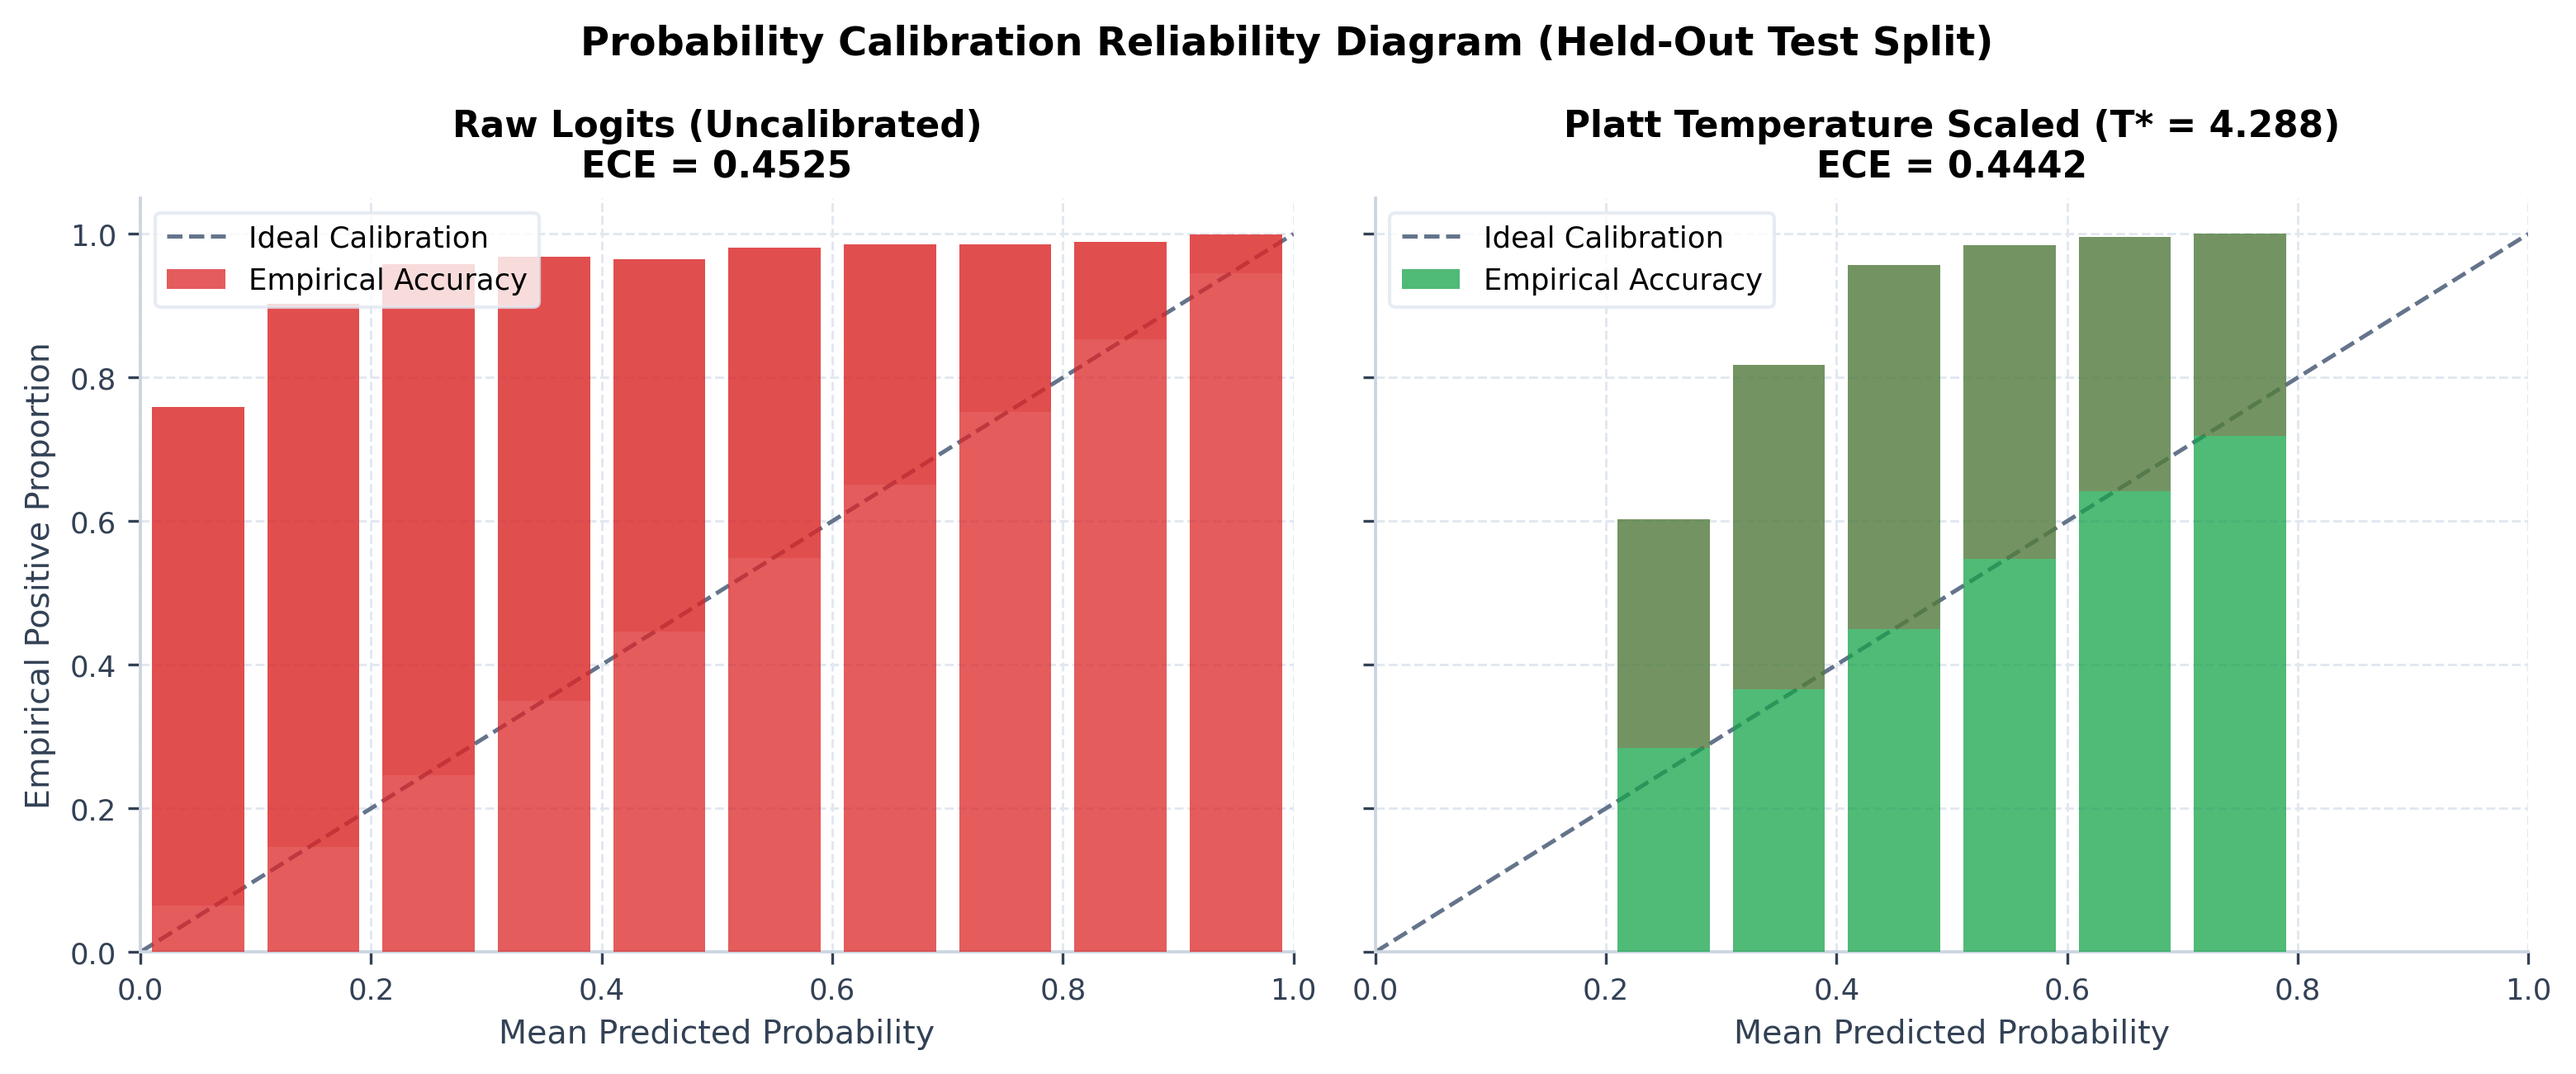
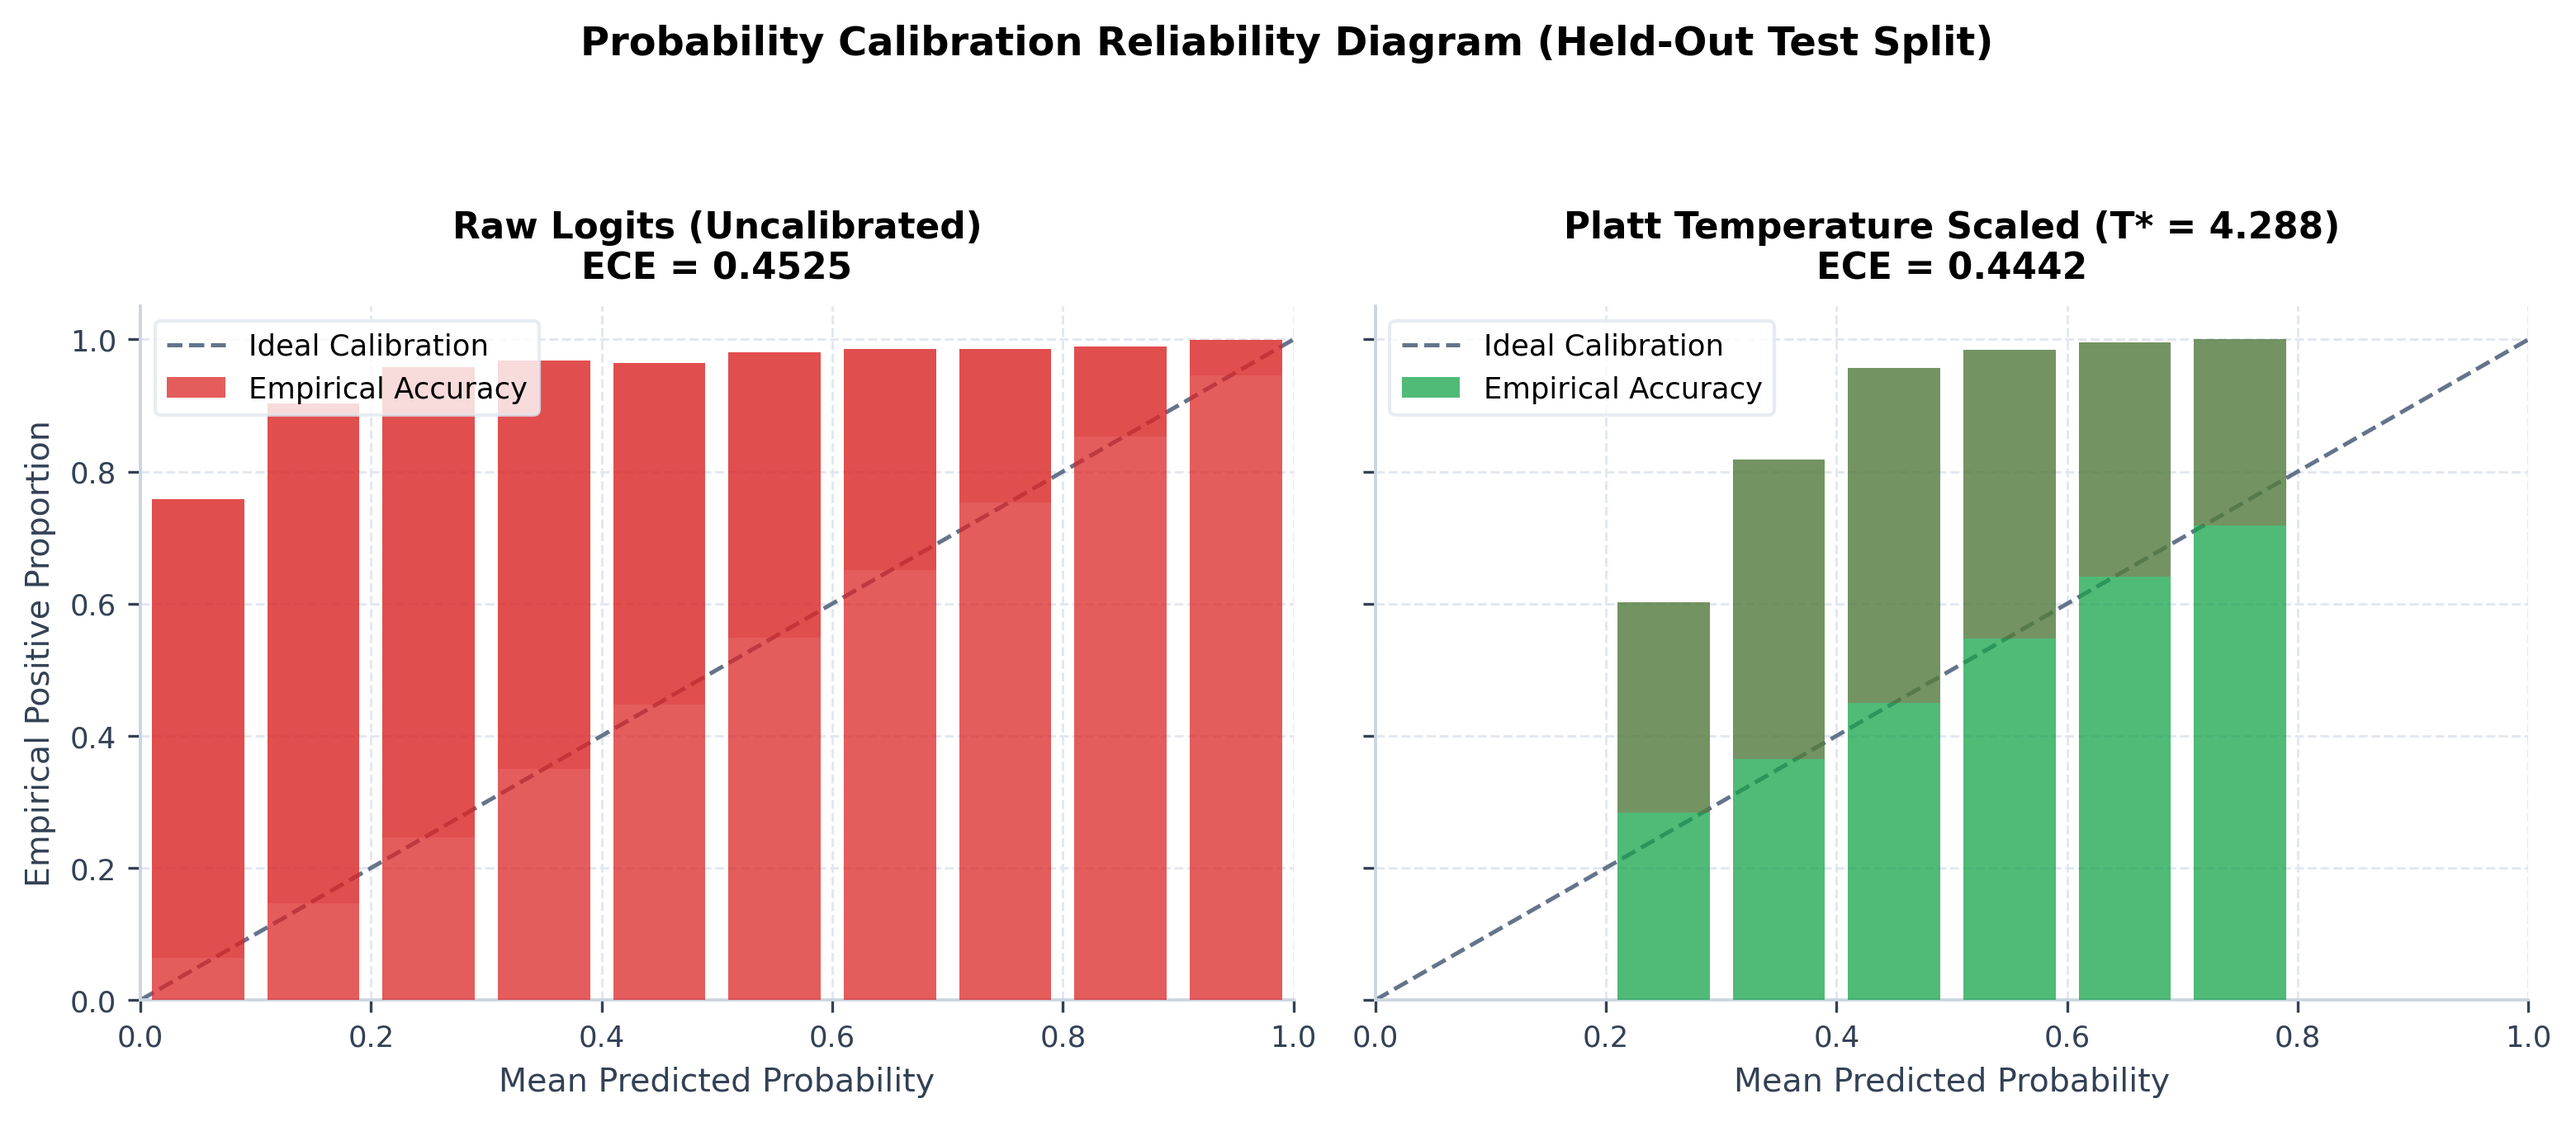
fix(plots): resolve visual overlaps and suptitle collisions across benchmark figures

diff --git a/scripts/generate_benchmark_plots.py b/scripts/generate_benchmark_plots.py
@@ -131,7 +131,7 @@ def plot_roc(
 
     ax.set_xlabel("False Positive Rate (FPR)")
     ax.set_ylabel("True Positive Rate (TPR)")
-    ax.set_title(f"ROC Curve — Held-Out Test Set ({len(labels):,} crops)")
+    ax.set_title(f"ROC Curve — Held-Out Test Set ({len(labels):,} crops)", pad=8)
     ax.legend(loc="lower right")
     ax.set_xlim(-0.01, 1.01)
     ax.set_ylim(-0.01, 1.01)
@@ -149,7 +149,7 @@ def plot_ece(
     probs_raw: np.ndarray, probs_cal: np.ndarray, labels: np.ndarray, output_path: str
 ) -> None:
     apply_base_style()
-    fig, axes = plt.subplots(1, 2, figsize=(10.5, 4.4), sharey=True)
+    fig, axes = plt.subplots(1, 2, figsize=(10.5, 4.6), sharey=True)
 
     for ax, probs, title, color in [
         (axes[0], probs_raw, "Raw Logits (Uncalibrated)", RED),
@@ -166,12 +166,17 @@ def plot_ece(
         ax.set_xlim(0, 1)
         ax.set_ylim(0, 1.05)
         ax.set_xlabel("Mean Predicted Probability")
-        ax.set_title(f"{title}\nECE = {ece:.4f}")
+        ax.set_title(f"{title}\nECE = {ece:.4f}", pad=8)
         ax.legend(loc="upper left")
 
     axes[0].set_ylabel("Empirical Positive Proportion")
-    fig.suptitle("Probability Calibration Reliability Diagram (Held-Out Test Split)", fontweight="bold", fontsize=11.5)
-    fig.tight_layout()
+    fig.suptitle(
+        "Probability Calibration Reliability Diagram (Held-Out Test Split)",
+        fontweight="bold",
+        fontsize=11.5,
+        y=0.98,
+    )
+    fig.tight_layout(rect=[0, 0, 1, 0.91])
     fig.savefig(output_path)
     plt.close(fig)
     logger.info("Saved ECE diagram -> %s", output_path)
@@ -222,16 +227,17 @@ def plot_precision_recall(
             f"τ* = {tau_star:.2f}\n(P={p_sp[idx_opt]*100:.1f}%, R={r_sp[idx_opt]*100:.1f}%)",
             (r_sp[idx_opt], p_sp[idx_opt]),
             textcoords="offset points",
-            xytext=(-45, -28),
+            xytext=(-52, -32),
             fontsize=8,
             color=RED,
             fontweight="bold",
             arrowprops={"arrowstyle": "->", "color": RED, "lw": 0.9},
+            bbox={"boxstyle": "round,pad=0.25", "facecolor": "white", "edgecolor": "#FECACA", "alpha": 0.9},
         )
 
     ax_pr.set_xlabel("Recall (Detection Sensitivity)")
     ax_pr.set_ylabel("Precision (Positive Predictive Value)")
-    ax_pr.set_title("Precision-Recall (16.78:1 Class Skew)")
+    ax_pr.set_title("Precision-Recall (16.78:1 Class Skew)", pad=8)
     ax_pr.set_xlim(-0.01, 1.01)
     ax_pr.set_ylim(0.85, 1.01)
     ax_pr.legend(loc="lower left")
@@ -252,9 +258,10 @@ def plot_precision_recall(
 
     f1_sp_arr = np.array(f1_sp)
     best_sp_idx = np.argmax(f1_sp_arr)
-    ax_f1.plot(threshold_grid, f1_sp_arr, color=BLUE, lw=1.8, label=f"Single-Frame Spatial (Max F1 = {f1_sp_arr[best_sp_idx]:.4f})")
-    ax_f1.axvline(tau_star, color=BLUE, lw=1.0, linestyle="--", alpha=0.7)
+    ax_f1.plot(threshold_grid, f1_sp_arr, color=BLUE, lw=1.8, label=f"Single-Frame Spatial (Max F1 = {f1_sp_arr[best_sp_idx]:.4f}, τ* = {tau_star:.2f})")
+    ax_f1.axvline(tau_star, color=BLUE, lw=1.2, linestyle="--", alpha=0.6)
 
+    t_star_seq = 0.3895
     if temporal_data and "probs_temporal" in temporal_data and "labels" in temporal_data:
         t_probs = np.array(temporal_data["probs_temporal"])
         t_labels = np.array(temporal_data["labels"])
@@ -269,18 +276,28 @@ def plot_precision_recall(
         f1_tp_arr = np.array(f1_tp)
         best_tp_idx = np.argmax(f1_tp_arr)
         t_star_seq = float(temporal_data.get("optimal_threshold", 0.3895))
-        ax_f1.plot(threshold_grid, f1_tp_arr, color=GREEN, lw=2.0, label=f"Video Bi-GRU (Max F1 = {f1_tp_arr[best_tp_idx]:.4f})")
-        ax_f1.axvline(t_star_seq, color=GREEN, lw=1.0, linestyle="--", alpha=0.7)
+        ax_f1.plot(threshold_grid, f1_tp_arr, color=GREEN, lw=2.0, label=f"Video Bi-GRU (Max F1 = {f1_tp_arr[best_tp_idx]:.4f}, τ* = {t_star_seq:.4f})")
+        ax_f1.axvline(t_star_seq, color=GREEN, lw=1.2, linestyle="--", alpha=0.6)
+
+    ax_f1.text(
+        0.96,
+        0.96,
+        f"Optimal Thresholds (Max F1):\n• Single-Frame: τ* = {tau_star:.2f}\n• Video Bi-GRU: τ* = {t_star_seq:.4f}",
+        ha="right",
+        va="top",
+        fontsize=7.8,
+        bbox={"boxstyle": "round,pad=0.35", "facecolor": LIGHT_GRAY, "edgecolor": "#CBD5E1", "alpha": 0.95},
+    )
 
     ax_f1.set_xlabel("Decision Threshold (τ)")
     ax_f1.set_ylabel("Fake Class F1-Score")
-    ax_f1.set_title("Operational F1-Score vs Decision Threshold")
+    ax_f1.set_title("Operational F1-Score vs Decision Threshold", pad=8)
     ax_f1.set_xlim(0.0, 1.0)
     ax_f1.set_ylim(0.70, 1.00)
-    ax_f1.legend(loc="lower center")
+    ax_f1.legend(loc="lower left", fontsize=8)
 
-    fig.suptitle("Forensic Detection Trade-Offs (Held-Out Test Set)", fontweight="bold", fontsize=11.5)
-    fig.tight_layout()
+    fig.suptitle("Forensic Detection Trade-Offs (Held-Out Test Set)", fontweight="bold", fontsize=11.5, y=0.98)
+    fig.tight_layout(rect=[0, 0, 1, 0.92])
     fig.savefig(output_path)
     plt.close(fig)
     logger.info("Saved Precision-Recall figure -> %s", output_path)
@@ -296,7 +313,7 @@ def plot_bayesian_decision_zones(
     output_path: str,
 ) -> None:
     apply_base_style()
-    fig, axes = plt.subplots(1, 2, figsize=(11.5, 4.6))
+    fig, axes = plt.subplots(1, 2, figsize=(11.5, 4.8))
 
     # Panel A: Single-Frame Probability Density
     ax1 = axes[0]
@@ -320,15 +337,20 @@ def plot_bayesian_decision_zones(
     ax1.axvline(0.42, color=RED, lw=1.4, linestyle="-", label="Optimal Threshold (τ* = 0.42)")
     ax1.axvline(0.60, color=PURPLE, lw=1.2, linestyle="--")
 
-    ax1.text(0.27, ax1.get_ylim()[1] * 0.90 if ax1.get_ylim()[1] > 0 else 3.0, "Authentic Zone\n(P < 0.40)", ha="center", fontsize=8, color="#15803D", fontweight="bold")
-    ax1.text(0.50, ax1.get_ylim()[1] * 0.90 if ax1.get_ylim()[1] > 0 else 3.0, "Manual Review\n[0.40, 0.60]", ha="center", fontsize=8, color="#B45309", fontweight="bold")
-    ax1.text(0.72, ax1.get_ylim()[1] * 0.90 if ax1.get_ylim()[1] > 0 else 3.0, "Confirmed Fake\n(P > 0.60, ≥98% P)", ha="center", fontsize=8, color="#B91C1C", fontweight="bold")
+    ax1.set_ylim(0, 9.6)
+    bbox_z1 = {"boxstyle": "round,pad=0.25", "facecolor": "#DCFCE7", "edgecolor": "#86EFAC", "alpha": 0.9}
+    bbox_z2 = {"boxstyle": "round,pad=0.25", "facecolor": "#FEF3C7", "edgecolor": "#FDE047", "alpha": 0.9}
+    bbox_z3 = {"boxstyle": "round,pad=0.25", "facecolor": "#FEE2E2", "edgecolor": "#FCA5A5", "alpha": 0.9}
+
+    ax1.text(0.275, 8.6, "Authentic Zone\n(P < 0.40)", ha="center", va="center", fontsize=8, color="#15803D", fontweight="bold", bbox=bbox_z1)
+    ax1.text(0.50, 8.6, "Manual Review\n[0.40, 0.60]", ha="center", va="center", fontsize=8, color="#B45309", fontweight="bold", bbox=bbox_z2)
+    ax1.text(0.725, 8.6, "Confirmed Fake\n(P > 0.60, ≥98% P)", ha="center", va="center", fontsize=8, color="#B91C1C", fontweight="bold", bbox=bbox_z3)
 
     ax1.set_xlabel("Temperature-Scaled Probability P(Fake)")
     ax1.set_ylabel("Probability Density")
-    ax1.set_title("Single-Frame Bayesian 3-Zone Separation")
+    ax1.set_title("Single-Frame Bayesian 3-Zone Separation", pad=8)
     ax1.set_xlim(0.15, 0.85)
-    ax1.legend(loc="upper left", fontsize=8)
+    ax1.legend(loc="upper left", bbox_to_anchor=(0.02, 0.76), fontsize=7.8, framealpha=0.92)
 
     # Panel B: Video Spatiotemporal Bi-GRU Separation
     ax2 = axes[1]
@@ -349,14 +371,15 @@ def plot_bayesian_decision_zones(
 
         ax2.set_xlabel("Bi-GRU Output Probability P(Fake)")
         ax2.set_ylabel("Probability Density")
-        ax2.set_title("Video Spatiotemporal Bi-GRU Bimodal Mode Separation")
+        ax2.set_title("Video Spatiotemporal Bi-GRU Bimodal Mode Separation", pad=8)
         ax2.set_xlim(-0.02, 1.02)
-        ax2.legend(loc="upper center", fontsize=8)
+        ax2.set_ylim(0, 19.5)
+        ax2.legend(loc="upper center", fontsize=8, framealpha=0.92)
     else:
         ax2.text(0.5, 0.5, "Temporal video predictions not available", ha="center", va="center")
 
-    fig.suptitle("Forensic Score Distributions & Decision Boundaries (Held-Out Test Set)", fontweight="bold", fontsize=11.5)
-    fig.tight_layout()
+    fig.suptitle("Forensic Score Distributions & Decision Boundaries (Held-Out Test Set)", fontweight="bold", fontsize=11.5, y=0.98)
+    fig.tight_layout(rect=[0, 0, 1, 0.92])
     fig.savefig(output_path)
     plt.close(fig)
     logger.info("Saved Bayesian decision zones plot -> %s", output_path)
@@ -439,8 +462,8 @@ def plot_confusion_matrices(
     else:
         ax2.text(0.5, 0.5, "Temporal video data not available", ha="center", va="center")
 
-    fig.suptitle("Normalized Confusion Matrices at Calibrated Operating Thresholds", fontweight="bold", fontsize=11.5)
-    fig.tight_layout()
+    fig.suptitle("Normalized Confusion Matrices at Calibrated Operating Thresholds", fontweight="bold", fontsize=11.5, y=0.98)
+    fig.tight_layout(rect=[0, 0, 1, 0.91])
     fig.savefig(output_path)
     plt.close(fig)
     logger.info("Saved Confusion Matrices -> %s", output_path)
@@ -451,7 +474,9 @@ def plot_confusion_matrices(
 # ---------------------------------------------------------------------------
 def plot_temporal_dynamics(output_path: str) -> None:
     apply_base_style()
-    fig, (ax_top, ax_bot) = plt.subplots(2, 1, figsize=(10.5, 5.2), sharex=True, gridspec_kw={"height_ratios": [2.2, 1.2]})
+    fig, (ax_top, ax_bot) = plt.subplots(
+        2, 1, figsize=(10.5, 5.4), sharex=True, gridspec_kw={"height_ratios": [2.2, 1.2]}
+    )
 
     # Representative forensic sequence (16 frames) illustrating transient anomaly detection
     frames = np.arange(1, 17)
@@ -481,9 +506,9 @@ def plot_temporal_dynamics(output_path: str) -> None:
     ax_top.scatter(frames[high_attn_mask], p_frames[high_attn_mask], s=110, facecolors="none", edgecolors=AMBER, linewidths=2.0, zorder=6, label="Temporal Attention Peak (α_t > 1/T)")
 
     ax_top.set_ylabel("Manipulated Probability")
-    ax_top.set_ylim(-0.02, 1.05)
-    ax_top.legend(loc="upper left", fontsize=8.0, ncol=2)
-    ax_top.set_title("Bi-GRU Spatiotemporal Anomaly Tracking (Representative Manipulated Sequence)")
+    ax_top.set_ylim(-0.02, 1.14)
+    ax_top.legend(loc="upper left", fontsize=7.8, ncol=1, framealpha=0.92)
+    ax_top.set_title("Bi-GRU Spatiotemporal Anomaly Tracking (Representative Manipulated Sequence)", pad=10)
 
     # Bottom panel: Temporal Attention Distribution
     bar_colors = [AMBER if a > uniform_attn else GRAY for a in attention]
@@ -500,10 +525,10 @@ def plot_temporal_dynamics(output_path: str) -> None:
     p_naive = np.mean(p_frames)
     p_bigru = 0.892  # Bi-GRU pooled score
     ax_top.text(
-        15.8, 0.90,
+        16.1, 1.08,
         f"Bi-GRU Pooled Verdict: {p_bigru:.3f} [FAKE]\nNaive Frame Average: {p_naive:.3f} [DILUTED]",
-        ha="right", va="top", fontsize=8.5, fontweight="bold",
-        bbox={"boxstyle": "round,pad=0.4", "facecolor": LIGHT_GRAY, "edgecolor": "#CBD5E1", "alpha": 0.95},
+        ha="right", va="top", fontsize=8.2, fontweight="bold",
+        bbox={"boxstyle": "round,pad=0.35", "facecolor": LIGHT_GRAY, "edgecolor": "#CBD5E1", "alpha": 0.95},
     )
 
     fig.tight_layout()
@@ -517,7 +542,7 @@ def plot_temporal_dynamics(output_path: str) -> None:
 # ---------------------------------------------------------------------------
 def plot_robustness(robustness: dict, output_path: str) -> None:
     apply_base_style()
-    fig, axes = plt.subplots(2, 2, figsize=(11.5, 7.8))
+    fig, axes = plt.subplots(2, 2, figsize=(11.5, 8.0))
     axes = axes.flatten()
 
     sweep_names = ["JPEG Compression", "Gaussian Blur", "Gaussian Noise", "Downscaling"]
@@ -558,17 +583,42 @@ def plot_robustness(robustness: dict, output_path: str) -> None:
         ax.plot(xs, aucs, color=color, lw=1.8, marker="o", markersize=5.5, zorder=3)
 
         for x, y in zip(xs, aucs):
-            ax.annotate(f"{y:.4f}", (x, y), textcoords="offset points", xytext=(0, 6), ha="center", fontsize=7.5, color=color, fontweight="bold")
+            if x == 0:
+                offset_x = 4
+                offset_y = 9
+                align_h = "left"
+            elif baseline_auc - y < 0.035 and baseline_auc - y > 0:
+                offset_x = 0
+                offset_y = -13
+                align_h = "center"
+            else:
+                offset_x = 0
+                offset_y = 7
+                align_h = "center"
+
+            ax.annotate(
+                f"{y:.4f}",
+                (x, y),
+                textcoords="offset points",
+                xytext=(offset_x, offset_y),
+                ha=align_h,
+                fontsize=7.5,
+                color=color,
+                fontweight="bold",
+                zorder=6,
+                bbox={"boxstyle": "round,pad=0.18", "facecolor": "white", "edgecolor": "none", "alpha": 0.95},
+            )
 
         ax.set_xticks(xs)
-        ax.set_xticklabels(levels, rotation=15, ha="right", fontsize=8)
-        ax.set_ylim(max(0.45, min(aucs) - 0.05), 1.01)
+        ax.set_xticklabels(levels, rotation=20, ha="right", fontsize=8)
+        min_y = max(0.42, min(aucs) - 0.05)
+        ax.set_ylim(min_y, 0.86)
         ax.set_ylabel("ROC AUC")
-        ax.set_title(sweep_name)
+        ax.set_title(sweep_name, pad=8)
         ax.legend(loc="lower left", fontsize=8)
 
-    fig.suptitle("Model Robustness Under Physical Image Degradation (Held-Out Test Set)", fontweight="bold", fontsize=11.5)
-    fig.tight_layout()
+    fig.suptitle("Model Robustness Under Physical Image Degradation (Held-Out Test Set)", fontweight="bold", fontsize=11.5, y=0.98)
+    fig.tight_layout(rect=[0, 0.02, 1, 0.94])
     fig.savefig(output_path)
     plt.close(fig)
     logger.info("Saved robustness plot -> %s", output_path)
@@ -620,7 +670,7 @@ def plot_loto(loto_data: list, output_path: str) -> None:
             ("Fold 5\nCeleb-DF v2\n(Cross-Dataset)", 0.7000, PURPLE),
         ]
 
-    fig, ax = plt.subplots(figsize=(8.2, 4.5))
+    fig, ax = plt.subplots(figsize=(8.5, 4.8))
     xs = list(range(len(folds)))
     labels = [f[0] for f in folds]
     aucs = [f[1] for f in folds]
@@ -631,18 +681,28 @@ def plot_loto(loto_data: list, output_path: str) -> None:
     for bar, f_info in zip(bars, folds):
         v = f_info[1]
         c = f_info[2]
-        ax.text(bar.get_x() + bar.get_width() / 2, v + 0.015, f"AUC = {v:.4f}", ha="center", va="bottom", fontsize=8.5, fontweight="bold", color=c)
+        ax.text(
+            bar.get_x() + bar.get_width() / 2,
+            v + 0.020,
+            f"AUC = {v:.4f}",
+            ha="center",
+            va="bottom",
+            fontsize=8.5,
+            fontweight="bold",
+            color=c,
+            bbox={"boxstyle": "round,pad=0.15", "facecolor": "white", "edgecolor": "none", "alpha": 0.85},
+        )
 
     ax.axhline(0.5, color=GRAY, lw=1.0, linestyle=":", label="Random Guess (AUC = 0.5000)")
     ax.axhline(np.mean(aucs), color=GREEN, lw=1.2, linestyle="--", label=f"5-Fold Macro Mean (AUC = {np.mean(aucs):.4f})")
     ax.set_xticks(xs)
     ax.set_xticklabels(labels, fontsize=8.5)
-    ax.set_ylim(0.40, 1.10)
+    ax.set_ylim(0.40, 1.12)
     ax.set_ylabel("Zero-Shot ROC AUC")
-    ax.set_title("Leave-One-Type-Out (LOTO) Cross-Generator Generalization")
+    ax.set_title("Leave-One-Type-Out (LOTO) Cross-Generator Generalization", pad=10)
     ax.legend(loc="upper right", fontsize=8.5)
 
-    fig.tight_layout()
+    fig.tight_layout(rect=[0, 0, 1, 0.96])
     fig.savefig(output_path)
     plt.close(fig)
     logger.info("Saved LOTO plot -> %s", output_path)
@@ -670,7 +730,7 @@ def plot_per_generator(output_path: str, subdomain_data: dict | None = None) -> 
     names = [g[0] for g in generators]
     aucs = [g[1] for g in generators]
 
-    fig, ax = plt.subplots(figsize=(7.5, 3.8))
+    fig, ax = plt.subplots(figsize=(7.8, 4.0))
     ys = list(range(len(names)))
     bar_colors = [PURPLE if "CELEB" in n or "Celeb" in n else TEAL for n in names]
 
@@ -685,9 +745,9 @@ def plot_per_generator(output_path: str, subdomain_data: dict | None = None) -> 
     ax.set_xlim(min_x, 1.05)
     ax.xaxis.set_major_formatter(mticker.FormatStrFormatter("%.2f"))
     ax.set_xlabel("ROC AUC")
-    ax.set_title("In-Distribution Sub-Domain Performance (Held-Out Test Set)")
+    ax.set_title("In-Distribution Sub-Domain Performance (Held-Out Test Set)", pad=10)
 
-    fig.tight_layout()
+    fig.tight_layout(rect=[0, 0, 1, 0.96])
     fig.savefig(output_path)
     plt.close(fig)
     logger.info("Saved per-generator plot -> %s", output_path)
